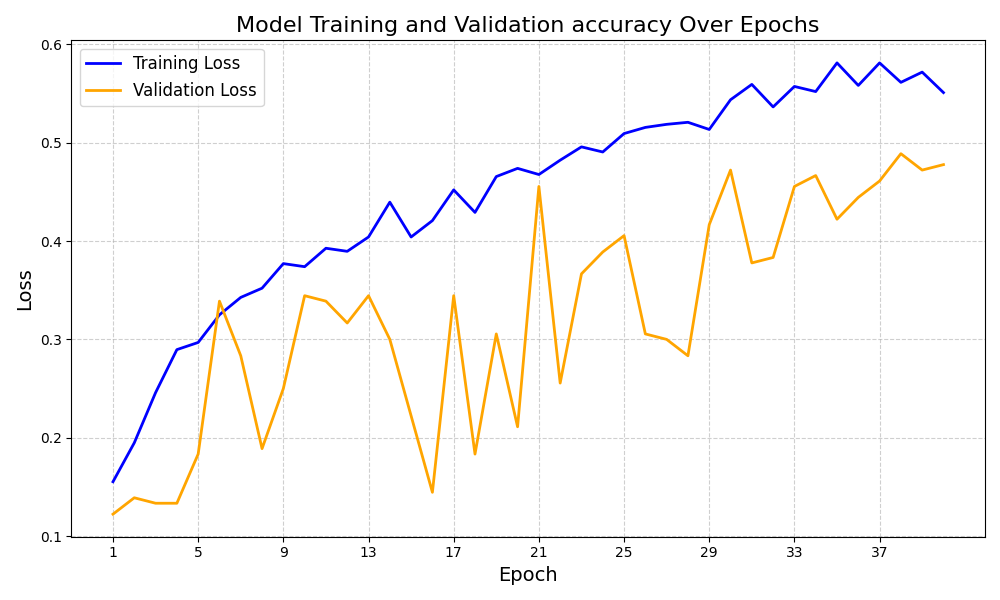
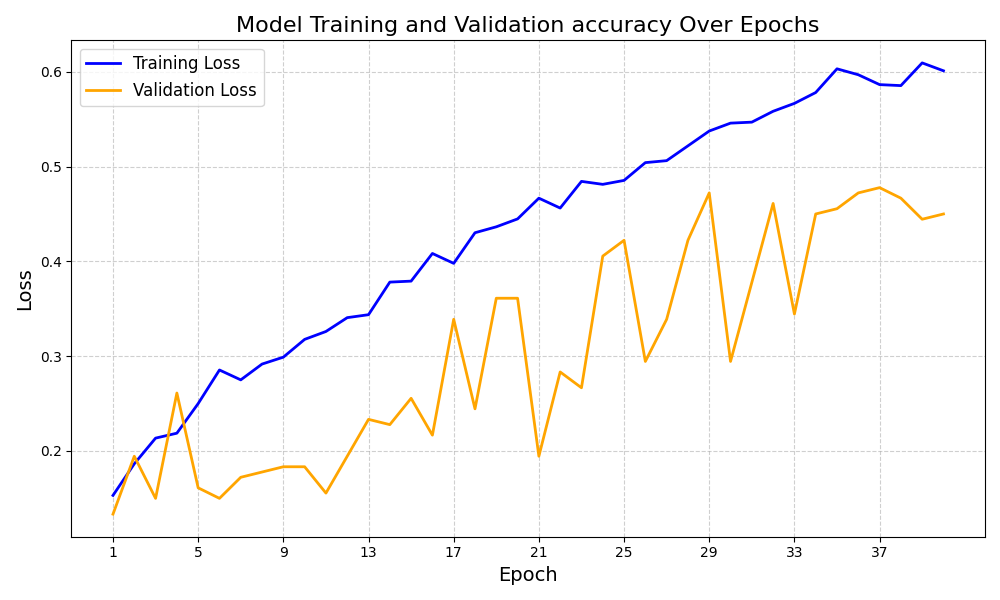
Increase model complexity

diff --git a/src/models.py b/src/models.py
@@ -12,26 +12,35 @@ class ConvBlock(nn.Module):
             nn.ReLU(inplace=True),
             nn.MaxPool2d(kernel_size=2)
         )
-    def forward(self, x): return self.net(x)
+
+    def forward(self, x):
+        return self.net(x)
 
 
 class EmotionCNN(nn.Module):
     def __init__(self, n_classes):
         super().__init__()
+
         self.features = nn.Sequential(
-            ConvBlock(1, 32),
-            ConvBlock(32, 64),
-            ConvBlock(64, 128),
-            ConvBlock(128, 256)
+            ConvBlock(1,   64),
+            ConvBlock(64,  128),
+            ConvBlock(128, 256),
+            ConvBlock(256, 512),
+            ConvBlock(512, 512),
         )
-        self.gap = nn.AdaptiveAvgPool2d((1,1))
+
+        # Global average pooling over time & frequency
+        self.gap = nn.AdaptiveAvgPool2d((1, 1))
+
+        # Classification
         self.head = nn.Sequential(
             nn.Flatten(),
-            nn.Linear(256, 128),
+            nn.Linear(512, 256),
             nn.ReLU(inplace=True),
-            nn.Dropout(0.3),
-            nn.Linear(128, n_classes)
+            nn.Dropout(0.5),
+            nn.Linear(256, n_classes)
         )
+
     def forward(self, x):
         x = self.features(x)
         x = self.gap(x)

diff --git a/README.md b/README.md
@@ -29,25 +29,25 @@ Note: dataset should be downloaded as zip and extracted into `./data` directory
 Plots are saved in `figs/`
 
 # Benchmarking results
-- Test accuracy: **50.30%**
-- Test loss: 1.3491
+- Test accuracy: **52.70%**
+- Test loss: 1.4440
 - Miscellaneous notes:
     - Trained on Macbook Pro M4 with GPU
-    - Per-epoch avg. runtime: 12.73 sec 
+    - Per-epoch avg. runtime: 25.57 sec 
 ```
 Classification report:
               precision    recall  f1-score   support
 
-       angry      0.592     0.725     0.652        40
-        calm      0.507     0.900     0.649        40
-     disgust      0.510     0.625     0.562        40
-     fearful      0.469     0.375     0.417        40
-       happy      0.350     0.175     0.233        40
-     neutral      0.333     0.200     0.250        20
-         sad      0.192     0.125     0.152        40
-   surprised      0.732     0.750     0.741        40
+       angry      0.732     0.750     0.741        40
+        calm      0.471     0.825     0.600        40
+     disgust      0.651     0.700     0.675        40
+     fearful      0.484     0.375     0.423        40
+       happy      0.303     0.250     0.274        40
+     neutral      0.000     0.000     0.000        20
+         sad      0.289     0.275     0.282        40
+   surprised      0.705     0.775     0.738        40
 
-    accuracy                          0.503       300
-   macro avg      0.461     0.484     0.457       300
-weighted avg      0.469     0.503     0.471       300
+    accuracy                          0.527       300
+   macro avg      0.454     0.494     0.467       300
+weighted avg      0.485     0.527     0.498       300
 ```
